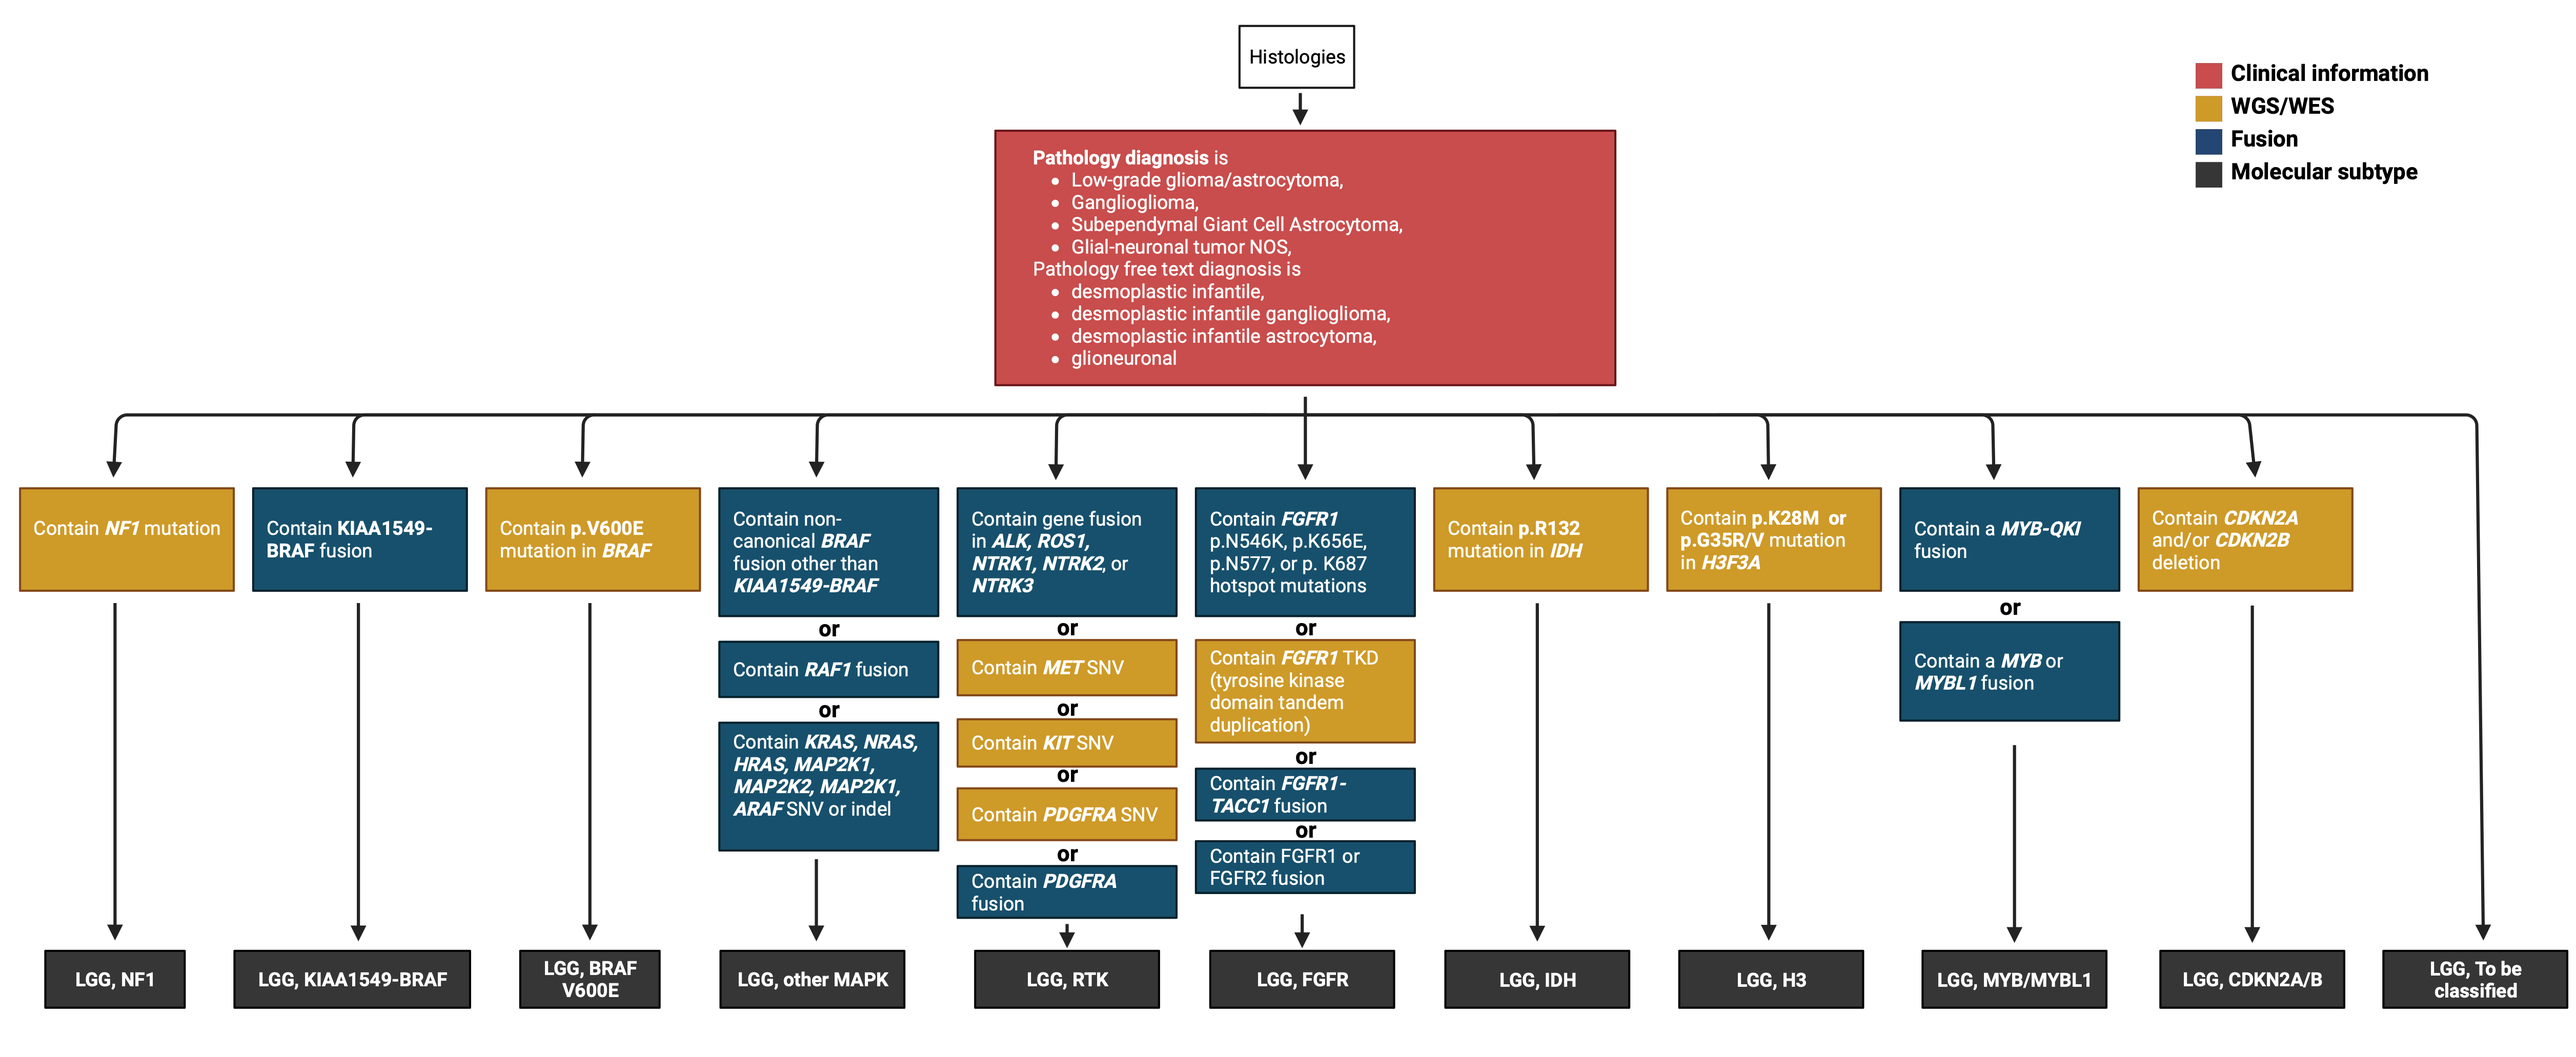
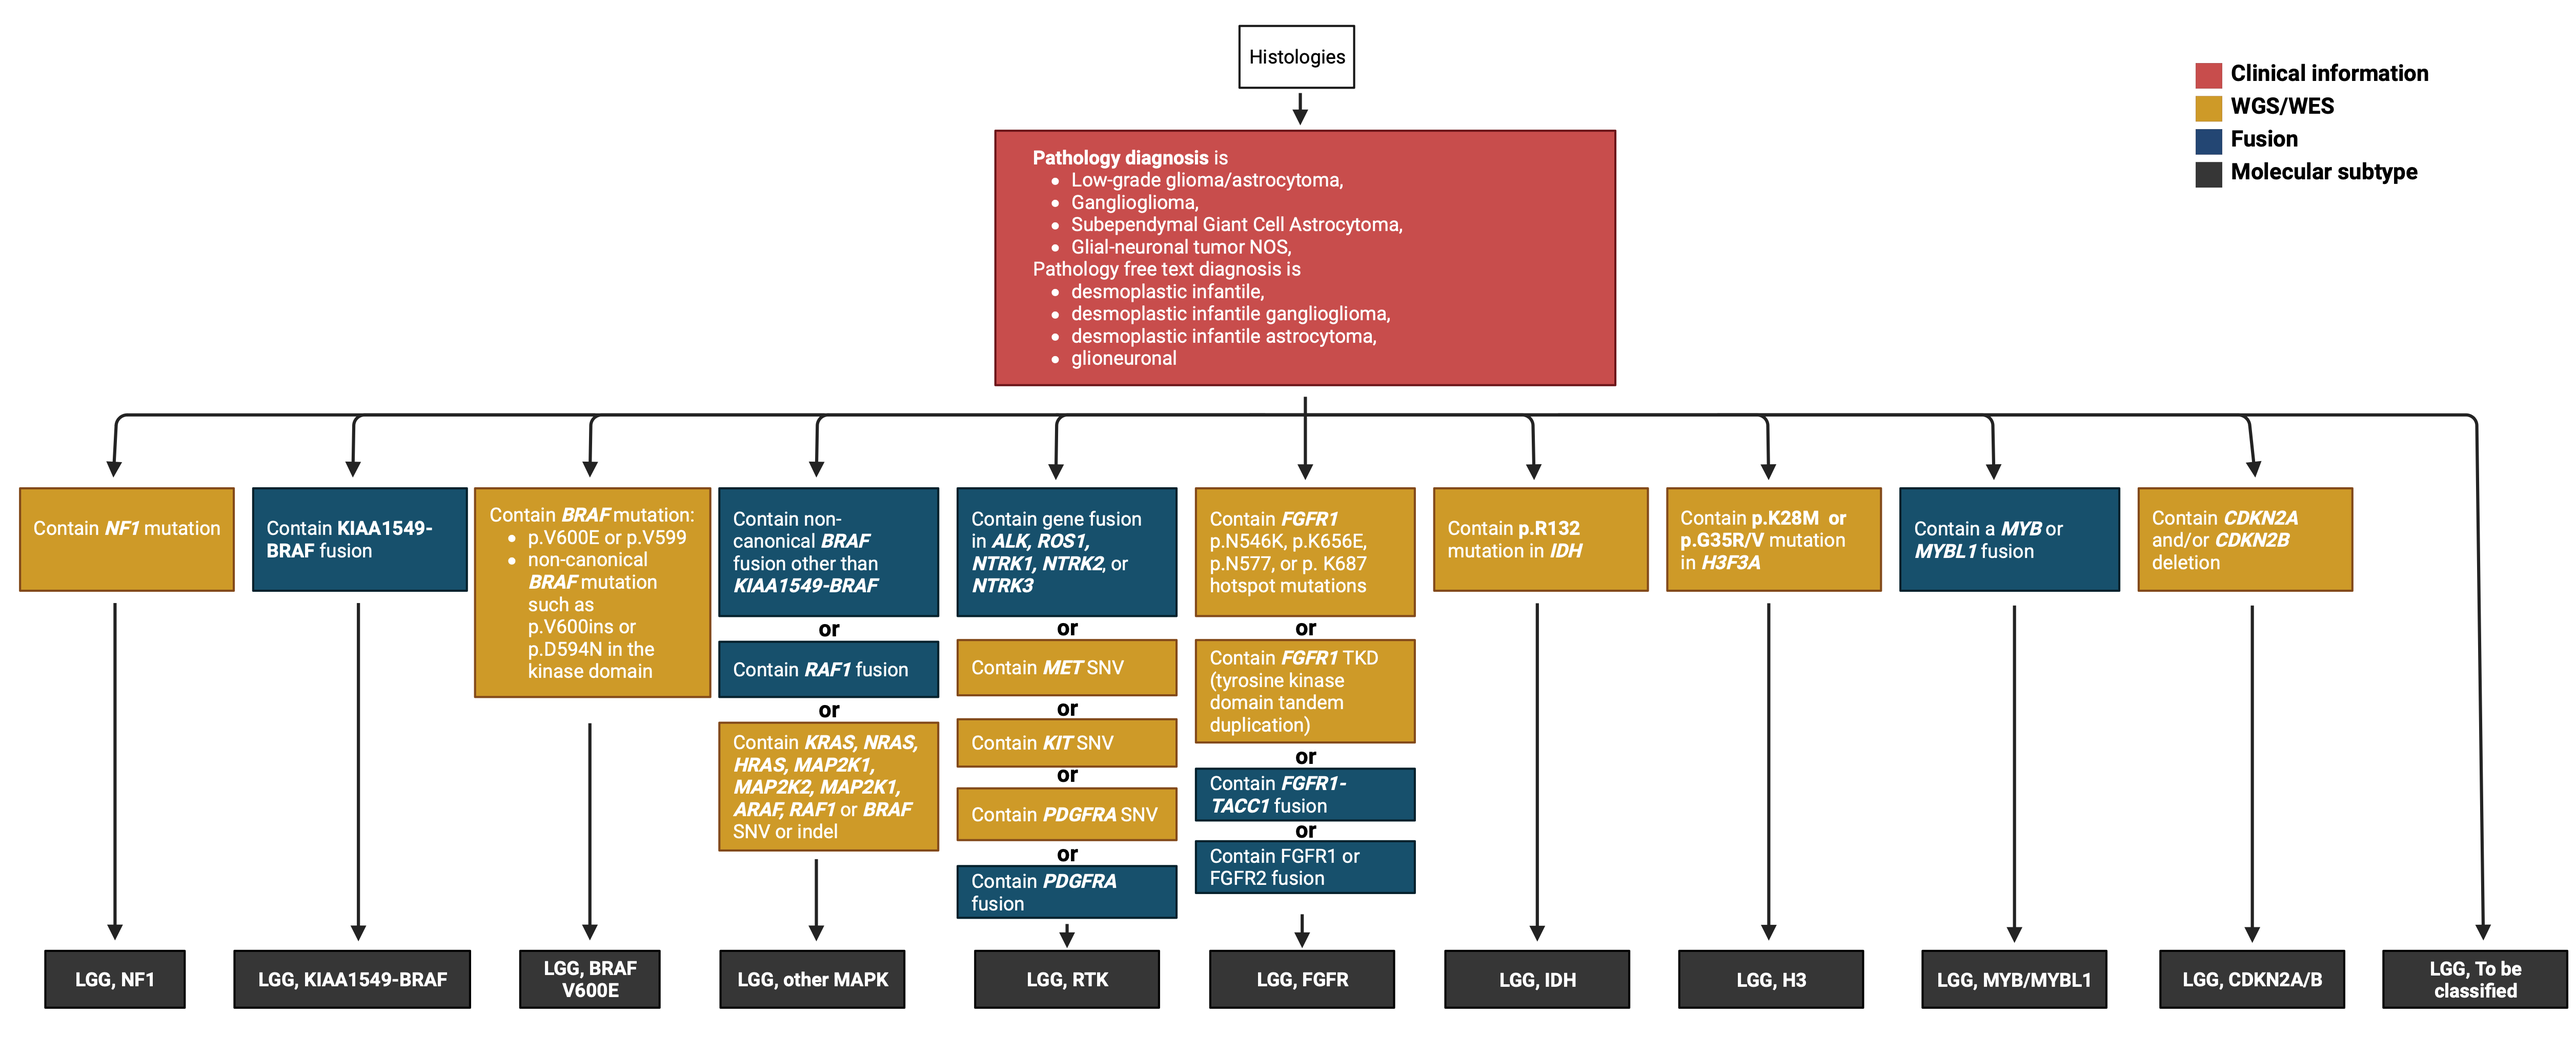
update figure and README

diff --git a/analyses/molecular-subtyping-LGAT/README.md b/analyses/molecular-subtyping-LGAT/README.md
@@ -17,20 +17,20 @@ In this analysis we subtype LGAT samples according to the presence/absence of mo
   - contains BRAF V600E or V599 SNV or non-canonical _BRAF_ alterations such as p.V600ins or p.D594N within the kiinase (PK_Tyr_Ser-Thr) domain.
 
 - **LGG, other MAPK**
-  - contains non-canonical _BRAF_ fusion other than _KIAA1549-BRAF_
-  - contains _RAF1_ fusion
+  - contains non-canonical _BRAF_ fusion other than _KIAA1549-BRAF_ **or**
+  - contains _RAF1_ fusion **or**
   - contains _KRAS_, _NRAS_, _HRAS_, _MAP2K1_, _MAP2K2_, _MAP2K1_, _ARAF_, _RAF1_ and BRAF (other than V600E or V599 SNV and other mutations in kinase domain) SNV or indel
 
 - **LGG, RTK**
   - harbors a fusion in _ALK_, _ROS1_, _NTRK1_, _NTRK2_, or _NTRK3_ **or**
-  - harbors a _MET_ SNV **or 
+  - harbors a _MET_ SNV **or** 
   - harbors a _KIT_ SNV **or**
   - harbors a _PDGFRA_ SNV or fusion
 
 - **LGG, FGFR**
   - harbors _FGFR1_ p.N546K, p.K656E, p.N577, or p. K687 hotspot mutations **or** 
   - harbors _FGFR1_ TKD (tyrosine kinase domain tandem duplication) **or**
-  - harbors _FGFR1-TACC1_ fusion **or 
+  - harbors _FGFR1-TACC1_ fusion **or**
   - harbors _FGFR1_ or _FGFR2_ fusions
 
 - **LGG, IDH**
